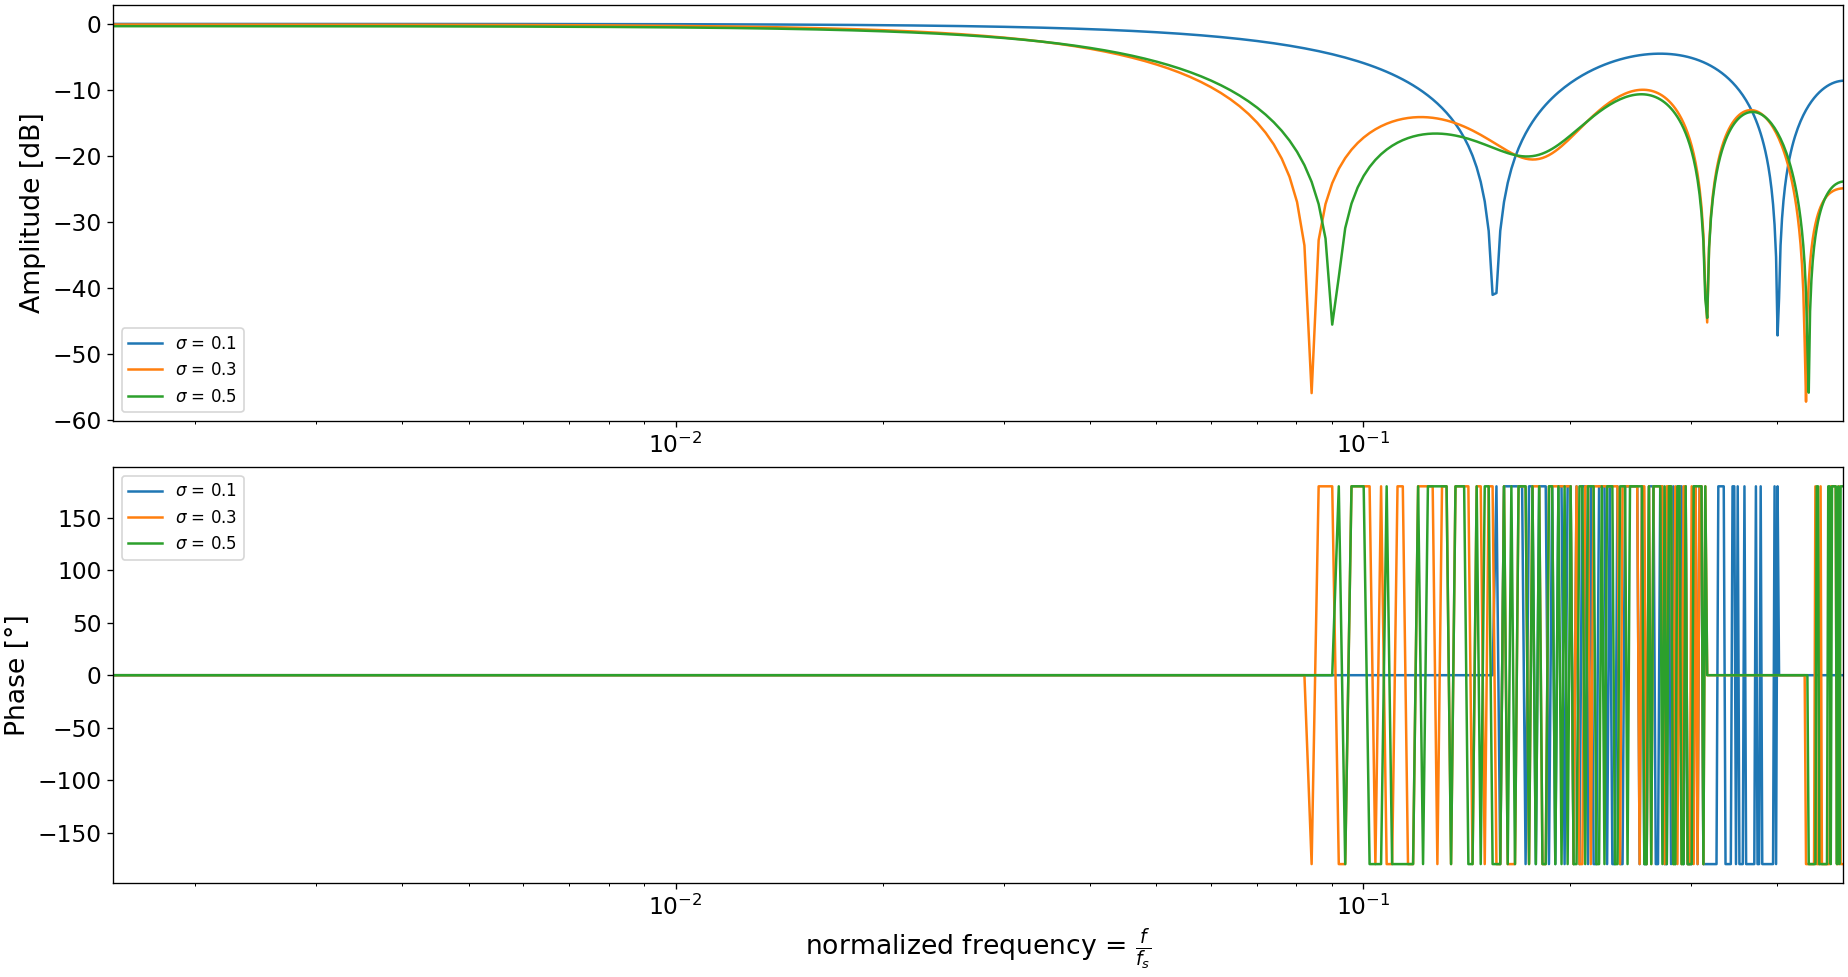
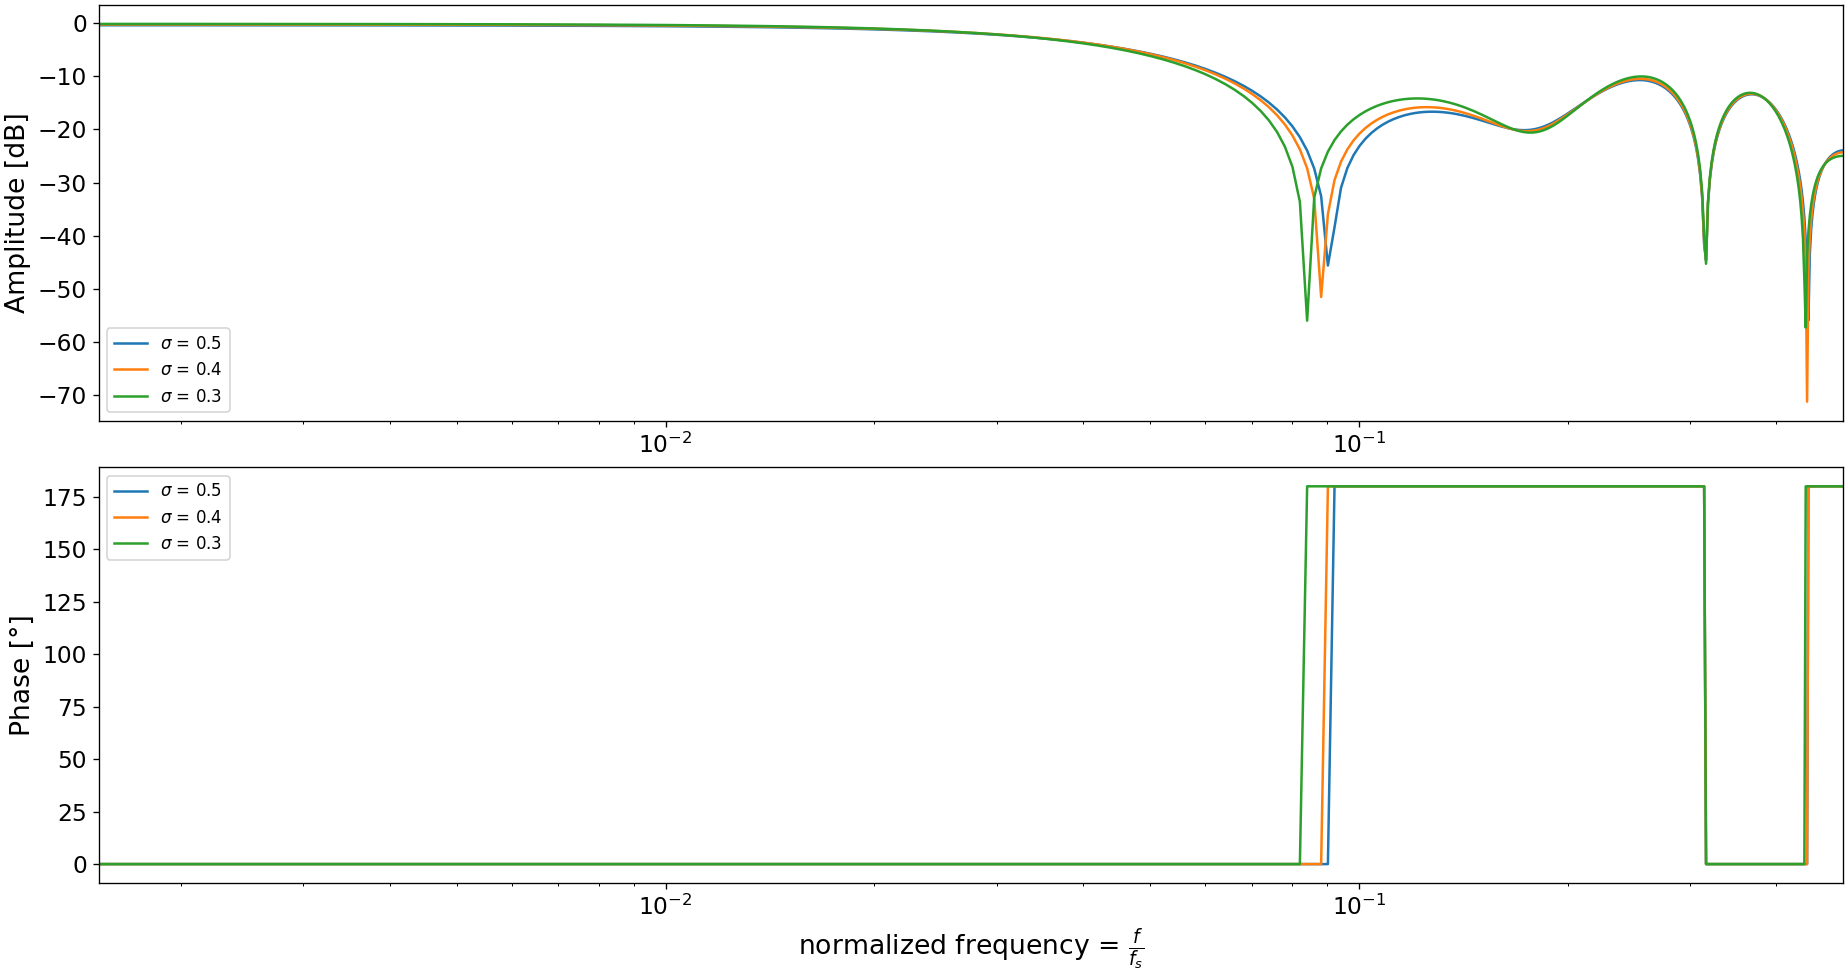
Bode diagram changes handling numerical problems

diff --git a/bodeplot.py b/bodeplot.py
@@ -27,10 +27,11 @@ t = np.linspace(0,1,num = int(point_counter))
 y1      = kalman.filter_fun(t,u,para = [2,[0,0],noise_std_dev, 1e4])[0]
 y2      = pt1.filter_fun(t, u, para = 100)
 
+
 # wiener
-h_wiener = np.array([    [0.08110043, 0.09482883, 0.02395821, 0.12631018, 0.12790999, 0.03793559, 0.01077581, 0.03793559, 0.12790999, 0.12631018, 0.02395821, 0.09482883, 0.08110043],
-                         [0.06005379, 0.0781426 , 0.01643154, 0.12433697, 0.13439967, 0.05805149, 0.04271674, 0.05805149, 0.13439967, 0.12433697, 0.01643154, 0.0781426 , 0.06005379],
-                         [0.05335261, 0.07264862, 0.01354238, 0.12276652, 0.13521046, 0.0631488 , 0.05184152, 0.0631488 , 0.13521046, 0.12276652, 0.01354238, 0.07264862, 0.05335261]   ])
+h_wiener = np.array([    [0.06005379, 0.0781426 , 0.01643154, 0.12433697, 0.13439967, 0.05805149, 0.04271674, 0.05805149, 0.13439967, 0.12433697, 0.01643154, 0.0781426 , 0.06005379],
+                         [0.05335261, 0.07264862, 0.01354238, 0.12276652, 0.13521046, 0.0631488 , 0.05184152, 0.0631488 , 0.13521046, 0.12276652, 0.01354238, 0.07264862, 0.05335261],   
+                         [0.04968118, 0.06947908, 0.0115695 , 0.1213343 , 0.13475785, 0.06456928, 0.0550195 , 0.06456928, 0.13475785, 0.1213343 , 0.0115695 , 0.06947908, 0.04968118]])
 window_wiener = np.array([14, 14, 14])
 
 y = [np.zeros(int(point_counter)), np.zeros(int(point_counter)), np.zeros(int(point_counter))]
@@ -39,11 +40,11 @@ for i in range(0,3):
         y_start_pad = u[0]*np.ones(N)
         y_end_pad = u[-1]*np.ones(N)
         y[i] = np.convolve(np.append(y_start_pad, np.append(u, y_end_pad)), h_wiener[i], mode='full')
-        y[i] = y[i][2*N-1:-2*N+1]  
+        y[i] = y[i][2*N-1:-2*N+1] 
 
 plot_bode1 = Plot_Sig(Plot_Enum.BODE,"Bode Plot",parameters = 0)
-plot_bode1.plot_sig(t,[[u,u,u],[y[0],y[1],y[2]]],[
-        "$\sigma$ = 0.2", "$\sigma$ = 0.3", "$\sigma$ = 0.4"])
+plot_bode1.plot_sig(t,[[u,u,u],[y[2],y[1],y[0]]],[
+        "$\sigma$ = 0.5", "$\sigma$ = 0.4", "$\sigma$ = 0.3"])
 
 y1      = kalman.filter_fun(t,u,para = [2,[0,0],noise_std_dev, 5e3])[0]
 y3      = kalman.filter_fun(t,u,para = [2,[0,0],noise_std_dev, 1e4])[0]
@@ -51,7 +52,7 @@ y5      = kalman.filter_fun(t,u,para = [2,[0,0],noise_std_dev, 5e4])[0]
 
 plot_bode2 = Plot_Sig(Plot_Enum.BODE,"Bode Plot",parameters = 0)
 plot_bode2.plot_sig(t,[[u,u,u],[y1,y3,y5]],[
-        "process noise $\sigma$ = 1e3", 
+        "process noise $\sigma$ = 1e3",
         "process noise $\sigma$ = 1e4",
         "process noise $\sigma$ = 1e5",])
 

diff --git a/plot_sig.py b/plot_sig.py
@@ -266,7 +266,11 @@ class Plot_Sig:
         for i in range(len(signals[0])):
             G_in_fft = np.fft.fft(signals[0][i])
             G_out_fft = np.fft.fft(signals[1][i])
-            G_fft = np.divide(G_out_fft, G_in_fft)            
+            G_fft = np.divide(G_out_fft, G_in_fft)
+            if max(abs(np.real(G_fft))) < 1e-10:
+                G_fft = np.imag(G_fft)
+            if max(abs(np.imag(G_fft))) < 1e-10:
+                G_fft = np.real(G_fft)
             ax_amp.semilogx(norm_freq,20*np.log10(abs(G_fft[:round(len(G_fft)/2)])), label=labels[i])
             ax_phase.semilogx(norm_freq,np.multiply(np.angle(G_fft[:round(len(G_fft)/2)]),(180/np.pi)), label=labels[i])
         

diff --git a/main_konsti_wiener.py b/main_konsti_wiener.py
@@ -14,7 +14,7 @@ from cost import *
 
 step_size       = 2.0e-3
 point_counter = 500
-noise_std_dev   = 0.4
+noise_std_dev   = 0.5
 
 # 0. Minimize function for window length of Wiener time implementation
 def minimize_wiener_window(t,y,x,filter,diff,cost):
